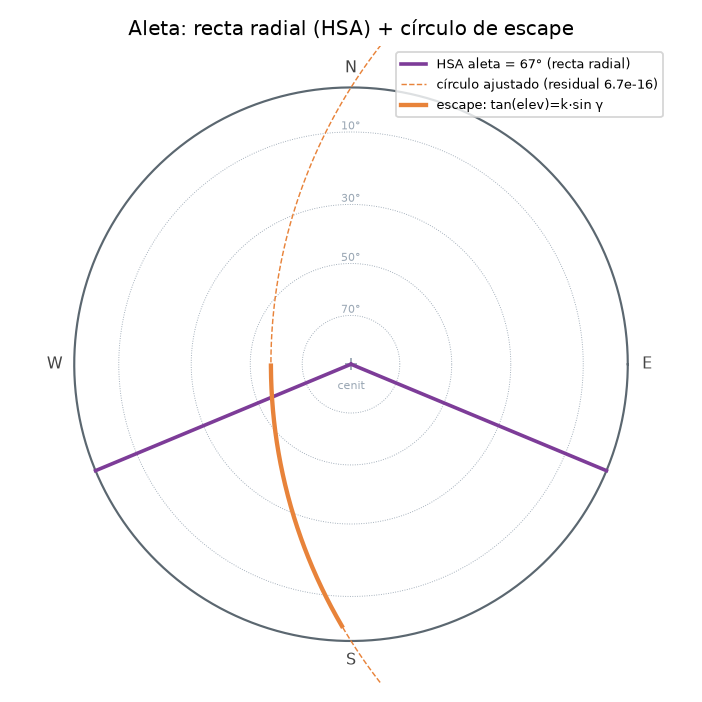
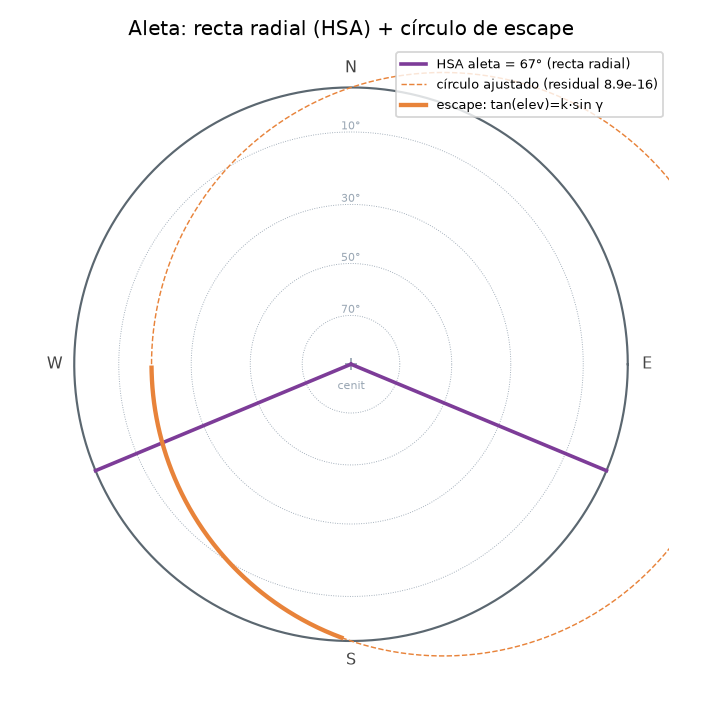
Metodología: figura del transportador (ángulos VSA/HSA) + revisión vs algoritmos
- Nueva figura fig00: transportador clásico con la familia de arcos de VSA (aleros, cada 10°)
  y rectas radiales de HSA (aletas, cada 15°), cada uno rotulado con su ángulo (§1.1).
- §4: la reducción ya no es 'solo la arista inferior' sino el MÁXIMO sobre las filas (la fila
  que liga sube cuando la aleta domina con ext_top chico).
- §5: ya no 'sin barrido de filas' — evalúa por fila en forma cerrada y toma el máximo.
- §6: validación al resultado real (<0.01° normal, ≤1.18° en patológicos de dos intervalos);
  +test test_analytic_boundary_hardened_fin_dominant.
- §7: caso límite de dos intervalos (offset>ext_top).
- Corrige el escape de la aleta SOLA: ext_top·sinγ/W (esquina superior lejana), no (H+ext_top)
  — en el texto §3 y en fig02.

diff --git a/docs/figuras_metodologia.py b/docs/figuras_metodologia.py
@@ -96,6 +96,30 @@ def _save(fig, name):
     print("escrito", name)
 
 
+def fig00_protractor():
+    """Transportador clásico: la familia de **arcos de VSA constante** (aleros, cada 10°) y de
+    **rectas radiales de HSA constante** (aletas, cada 15°), cada uno rotulado con su ángulo. Es la
+    retícula de lectura; los bordes de sombra se componen de estos arcos y rectas."""
+    g = np.linspace(-89, 89, 200)
+    fig, ax = plt.subplots(figsize=(5.8, 5.8))
+    _frame(ax, "Transportador: arcos de VSA (aleros) + rectas de HSA (aletas)")
+    for vsa in range(10, 90, 10):                                  # arcos de VSA constante
+        e = np.degrees(np.arctan(np.tan(np.radians(vsa)) * np.cos(np.radians(g))))
+        ax.plot(*_project(e, g), color="#3f8fb0", lw=0.7, alpha=0.85)
+        ax.text(*_project(vsa, 0), f"{vsa}°", color="#3f8fb0", fontsize=6.5, ha="center", va="center")
+    for hsa in range(0, 90, 15):                                   # rectas radiales de HSA constante
+        for sgn in ((1,) if hsa == 0 else (1, -1)):
+            xr, yr = _project(np.array([0.0, 90.0]), np.array([sgn * hsa, sgn * hsa]))
+            ax.plot([0, xr[0]], [0, yr[0]], color="#c0712e", lw=0.7, ls=(0, (4, 3)), alpha=0.85)
+            lx, ly = _project(4.0, sgn * hsa)
+            lab = "0°" if hsa == 0 else f"{sgn * hsa:+d}°"
+            ax.text(lx * 1.05, ly * 1.05, lab, color="#c0712e", fontsize=5.8, ha="center", va="center")
+    ax.plot([], [], color="#3f8fb0", lw=1.2, label="VSA (aleros)")
+    ax.plot([], [], color="#c0712e", lw=1.2, ls=(0, (4, 3)), label="HSA (aletas)")
+    ax.legend(loc="upper right", fontsize=7)
+    _save(fig, "fig00_protractor.png")
+
+
 def fig01_vsa_circle():
     """Alero: el locus de sombra 100% es un arco del círculo de VSA constante."""
     depth = 0.6
@@ -120,7 +144,7 @@ def fig02_fin_line_and_escape():
     """Aleta: corte HSA = recta radial; 'escape por encima' = círculo (tan e = k·sin γ)."""
     fin, ext_top = 0.5, 0.4
     hsa = fin_full_shade_hsa(fin, W)                  # corte HSA (recta radial)
-    k = (H + ext_top) / W                             # escape: tan(elev)=k·sin γ
+    k = ext_top / W                                   # escape (esquina superior lejana): tan(elev)=k·sin γ
     g = np.linspace(2, 89, 200)
     elev = np.degrees(np.arctan(k * np.sin(np.radians(g))))
     x, y = _project(elev, g)
@@ -248,6 +272,7 @@ def fig06_coverage_effect():
 
 def main():
     os.makedirs(ASSETS, exist_ok=True)
+    fig00_protractor()
     fig01_vsa_circle()
     fig02_fin_line_and_escape()
     fig03_single_fin_region()

diff --git a/docs/metodologia-sombra.md b/docs/metodologia-sombra.md
@@ -21,6 +21,16 @@ Usamos `t = tan(VSA) = tan(elev)/cos γ` y `m = tan γ`. Proyección estereográ
 `r = tan((90°−elev)/2)` (cenit al centro `r=0`, horizonte `r=1`); el punto se coloca en el
 azimut `pared+γ`. Es **conforme**: mapea muchos lugares geométricos a **círculos**.
 
+### 1.1 El transportador: la retícula de ángulos VSA y HSA
+
+La herramienta clásica de lectura es el **transportador de ángulos de sombra** (Olgyay): la familia
+de **arcos de VSA constante** (cada 10°, para **aleros** horizontales) y de **rectas radiales de HSA
+constante** (cada 15°, para **aletas** verticales), relativos a la normal de la ventana. Cada arco y
+cada recta lleva su ángulo; los bordes de sombra que derivamos abajo se **componen** de estos arcos
+y rectas. (La app lo ofrece como capa opcional sobre la carta.)
+
+![Transportador: arcos de VSA y rectas de HSA con sus ángulos](assets/fig00_protractor.png)
+
 ## 2. Recapitulación horizontal (alero) — exacto y conocido
 
 Un alero sombrea el 100 % de la ventana cuando `VSA ≥ VSA_corte = arctan((H+offset)/depth)`.
@@ -37,9 +47,9 @@ Por dualidad alero↔aleta, VSA↔HSA:
 
 - La aleta cubre **todo el ancho** cuando `γ ≥ arctan(W/fin)` → en la estereográfica es una
   **recta radial** (corte HSA). Para una aleta de altura infinita, eso bastaría.
-- Una aleta **finita** deja escapar el rayo por **encima** de su borde superior. Esa condición es
-  `tan(elev) = (H+ext_top)·sin γ / W` → de nuevo un **círculo exacto** (mismo tipo que el círculo
-  lateral del alero).
+- Una aleta **finita** deja escapar el rayo por **encima** de su borde superior. El punto que manda
+  es la **esquina superior lejana** `(x=0, y=H)`, y la condición es `tan(elev) = ext_top·sin γ / W`
+  → de nuevo un **círculo exacto** (mismo tipo que el círculo lateral del alero).
 
 ![Recta HSA y círculo de escape](assets/fig02_fin_line_and_escape.png)
 
@@ -55,24 +65,28 @@ puede analítico" **no se sostiene a nivel de primitivas**.
 Lo genuinamente difícil es la **celosía**: cuando ni el alero ni la aleta sombrean al 100 % por
 separado pero **juntos sí**. La unión de sus sombras no es un único lugar geométrico.
 
-**Linchpin (verificado numéricamente):** la ventana queda 100 % sombreada ⟺ su **arista inferior
-`y=0`** queda cubierta (el umbral calculado solo en `y=0` coincide con el ray casting completo a
-**0.055°** = el paso del barrido). En `y=0`, con `top=H+offset` (caso `γ>0`):
+**Reducción por filas.** La ventana queda 100 % sombreada ⟺ **todas** sus filas `y` quedan cubiertas.
+Por fila, con `top_y = H+offset−y` y `etop_y = H+ext_top−y` (caso `γ>0`):
 
-- el alero cubre desde un lado hasta `P = min(W, W+ext − m·top/t)`;
-- la aleta cubre desde `Q = max(0, W − m·μ)`, con `μ = min(fin, (H+ext_top)/t)`.
+- el alero cubre desde un lado hasta `P = min(W, W+ext − m·top_y/t)`;
+- la aleta cubre desde `Q = max(0, W − m·μ)`, con `μ = min(fin, etop_y/t)`.
 
-La ventana se cubre cuando **`P ≥ Q`**. Como añadir un dispositivo **solo puede bajar** el umbral,
-`elev_full(γ)` es el **mínimo** sobre los mecanismos de cubrimiento, cada uno una curva analítica:
+La fila se cubre cuando **`P ≥ Q`** (o cuando un dispositivo solo cubre el ancho). En la mayoría de
+las protecciones la fila que **liga** es la **inferior** (`y=0`) — ahí el umbral coincide con el ray
+casting completo a **0.055°**. Pero cuando la **aleta domina y `ext_top` es chico**, la fila crítica
+**sube**; por eso se calcula el umbral **por fila** en forma cerrada y se toma el **máximo sobre las
+filas**. El umbral de cada fila es el **mínimo** sobre los mecanismos de cubrimiento (añadir un
+dispositivo solo puede *bajarlo*), cada uno una curva analítica:
 
 | Mecanismo | Curva | Tipo |
 |---|---|---|
 | Alero solo cubre el ancho (`P=W`) | `tan(elev)=tan(VSA_corte)·cos γ` ∪ `tan(elev)=top·sin γ/ext` | círculos |
-| Aleta sola cubre el ancho (`Q=0`) | `γ ≥ arctan(W/fin)` → **ala** (100 % a toda elevación) | recta radial |
+| Aleta sola cubre el ancho (`Q=0`) | `γ ≥ arctan(W/fin)` → **ala** (la aleta cubre el ancho de la fila) | recta radial |
 | Alero + aleta se tocan (`P=Q`) | `tan(elev)=top·sin γ·cos γ /(fin·sin γ + ext·cos γ)` ("curva‑razón") | — |
 
 (El subrégimen de "escape" de la aleta en `P=Q` solo aparece si `offset>ext_top`.) La frontera de
-la celosía es la **envolvente** (mínimo por γ) de estas piezas:
+la celosía es la **envolvente**: por cada γ, el **máximo sobre las filas** del mínimo (por fila)
+sobre estas piezas:
 
 ![Envolvente de la celosía](assets/fig04_eggcrate_composed.png)
 
@@ -83,10 +97,11 @@ polinomios trigonométricos); el script reporta su residual de ajuste a círculo
 ## 5. Resultado en forma cerrada
 
 `solar.shading.full_shade_boundary_analytic(...)` evalúa, por cada γ (malla **par** para evitar
-la singularidad de medida cero en `γ=0`), el mínimo de los mecanismos anteriores —sin bisección
-ni barrido de filas— y devuelve `(gamma, elev_full)`. La región sombreada es `elev ≥ elev_full`;
-`90°` donde no se alcanza el 100 %. El ray casting `full_shade_boundary(...)` se conserva como
-referencia. La app ofrece un selector con **tres** máscaras (ver §5.1).
+la singularidad de medida cero en `γ=0`), el **umbral por fila** en forma cerrada (las piezas de
+arriba) y toma el **máximo sobre las filas** — **sin bisección**. Devuelve `(gamma, elev_full)`; la
+región sombreada es `elev ≥ elev_full` y `90°` donde no se alcanza el 100 %. El ray casting
+`full_shade_boundary(...)` (mínimo sobre filas + bisección) se conserva como referencia. La app
+ofrece un selector con **tres** máscaras (ver §5.1).
 
 ### 5.1 100 % estricto vs. borde práctico — el efecto del umbral de cobertura
 
@@ -125,16 +140,19 @@ para inspeccionar la metodología y los saltos exactos del 100 % estricto.
 
 ## 6. Validación
 
-`full_shade_boundary_analytic` coincide con el ray casting en la región significativa a
-**< 0.01°** (el residual de `0.5°` que aparece en el ala es solo el piso de bisección del ray
-casting, donde el analítico es de hecho más exacto: `elev=0`). También se contrasta contra la
-cobertura de **área densa** (`shaded_fraction`, malla 400×400): justo dentro del borde la ventana
-está 100 % sombreada y justo afuera no.
+`full_shade_boundary_analytic` coincide con el ray casting a **< 0.01°** en las protecciones
+normales y a **< ~1°** en un barrido de 720 configuraciones (incluidas las dominadas por aletas con
+`ext_top` chico, que el "máximo sobre filas" resuelve). El residual (≤ **1.18°**) queda en regímenes
+**patológicos de dos intervalos** (`offset>ext_top` pasado el corte de la aleta): ahí la sombra es
+total a baja **y** a alta elevación con un hueco fino del 0.1–0.5 % en medio, y el "borde 100 %" es
+ambiguo de por sí. También se contrasta contra la cobertura de **área densa** (malla 400–600²):
+justo dentro del borde la ventana está 100 % sombreada y justo afuera no.
 
 ![Validación analítico vs ray casting](assets/fig05_validation_overlay.png)
 
 Tests: `test_analytic_boundary_matches_raycasting`, `test_analytic_boundary_is_true_locus`,
-`test_analytic_boundary_regimes_and_edges` (ver [`../TESTS.md`](../TESTS.md)).
+`test_analytic_boundary_regimes_and_edges`, `test_analytic_boundary_hardened_fin_dominant`
+(ver [`../TESTS.md`](../TESTS.md)).
 
 ## 7. Casos límite y alcance
 
@@ -144,6 +162,10 @@ Tests: `test_analytic_boundary_matches_raycasting`, `test_analytic_boundary_is_t
   100 % solo a **baja** elevación (intervalo *inferior*), que la representación `elev_full`
   (intervalo *superior*) no captura; ese caso degenerado queda fuera de alcance (devuelve `90°`,
   como el ray casting). La celosía real siempre tiene `depth>0`.
+- **Dos intervalos (`offset>ext_top` pasado el corte de la aleta):** la sombra total existe a baja
+  **y** a alta elevación con un hueco fino en medio. Como `elev_full` solo representa el intervalo
+  superior, ahí el borde es ambiguo (residual ≤ 1.18° vs ray casting). Para diseño, la máscara
+  **práctica** (default) lo dibuja suave.
 - **Estabilidad numérica:** divisiones por `sin γ`, `cos γ`, `t`, `ext`, `fin` se protegen con
   `np.errstate` + `np.where` (nunca NaN en la salida).
 